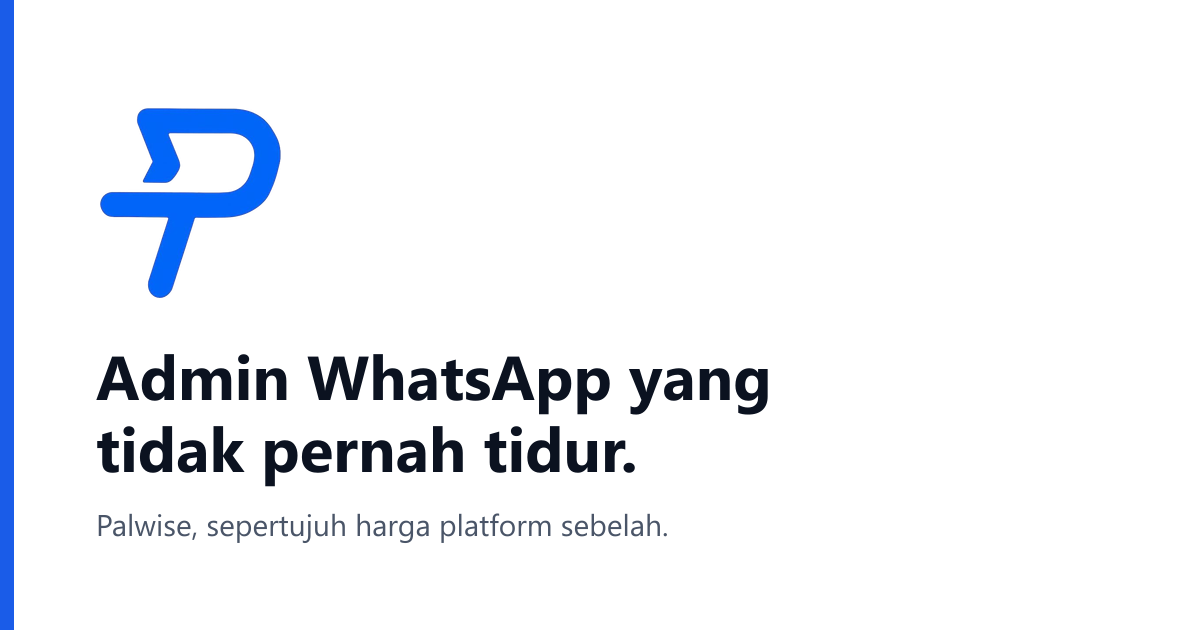
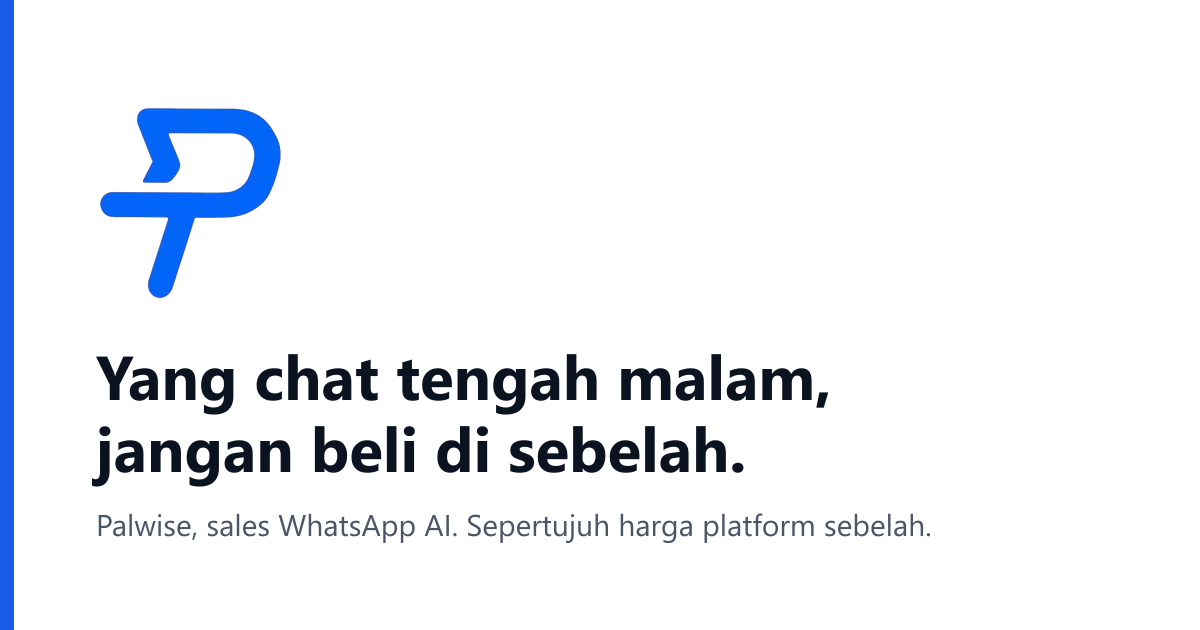
Kartu bagikan: ikut posisi sales, dan fontnya jangan hilang di Linux
Dua masalah ketemu waktu deploy ke VPS Ubuntu.

1. Kartunya masih bertulisan 'Admin WhatsApp yang tidak pernah tidur',
   posisi yang sudah diganti dua hari sebelumnya. Padahal kartu itu yang
   PERTAMA dilihat orang waktu tautannya dikirim lewat WhatsApp, dan
   WhatsApp itu jalur sebar utama produk ini.

2. Fontnya cuma Segoe UI, Arial, Helvetica, dan tidak satu pun ada di Ubuntu
   minimal. Skripnya mencetak satu baris Fontconfig error lalu SELESAI DENGAN
   SUKSES: berkasnya tetap terbentuk, tulisannya hilang, dan satu-satunya
   tandanya ukurannya separuh dari yang di laptop (24 KB lawan 50 KB).

- Teks kartu jadi 'Yang chat tengah malam, jangan beli di sebelah'
- DejaVu Sans dan Liberation Sans ditambah sebagai cadangan
- pasang-server.sh memasang fontconfig dan fonts-dejavu-core
- Tiga tes baru menjaga ketiganya

Changed region(s): [[0.0617, 0.5429, 0.6783, 0.7841], [0.185, 0.8143, 0.7708, 0.8746], [0.6783, 0.6333, 0.7092, 0.6635]]

diff --git a/apps/worker/src/scripts/selftest.ts b/apps/worker/src/scripts/selftest.ts
@@ -5075,6 +5075,31 @@ Sitemap: https://www.audydental.com/sitemap-blog.xml`;
       "admin cuma dipakai sebagai pembanding biaya",
       /gaji admin/.test(depan),
     );
+
+    // Kartu bagikan WAJIB ikut posisinya, dan dia yang paling gampang terlupa.
+    //
+    // Terjadi 9 Agustus 2026: halaman jualan sudah dipindah ke sales dua hari
+    // sebelumnya, tapi kartu bagikan masih bertulisan "Admin WhatsApp yang tidak
+    // pernah tidur". Padahal kartu itu yang PERTAMA dilihat orang waktu tautannya
+    // dikirim lewat WhatsApp, dan WhatsApp itu jalur sebar utama produk ini. Jadi
+    // orang membaca posisi lama sebelum sempat membuka halamannya.
+    const skripLogo = baca("apps/web/scripts/buatLogo.mjs");
+    check(
+      "kartu bagikan tidak lagi menjual admin",
+      !/Admin WhatsApp/.test(skripLogo),
+    );
+    check(
+      "kartu bagikan menyebut sales dan pembeda harganya",
+      /sales WhatsApp/i.test(skripLogo) && /[Ss]epertujuh/.test(skripLogo),
+    );
+    // Fontnya harus memuat nama yang ADA di Linux. Kalau tidak, di server
+    // tulisannya hilang tanpa satu pun galat: berkasnya tetap terbentuk, cuma
+    // ukurannya separuh. Satu-satunya tandanya ukuran berkas, dan tidak ada yang
+    // memeriksa ukuran berkas.
+    check(
+      "font kartu bagikan punya cadangan yang ada di Linux",
+      /DejaVu Sans/.test(skripLogo),
+    );
     // Tombol chat yang tidak ada yang membalas jauh lebih merusak daripada
     // tidak ada tombolnya, jadi dia harus menunggu nomornya diisi.
     check(
